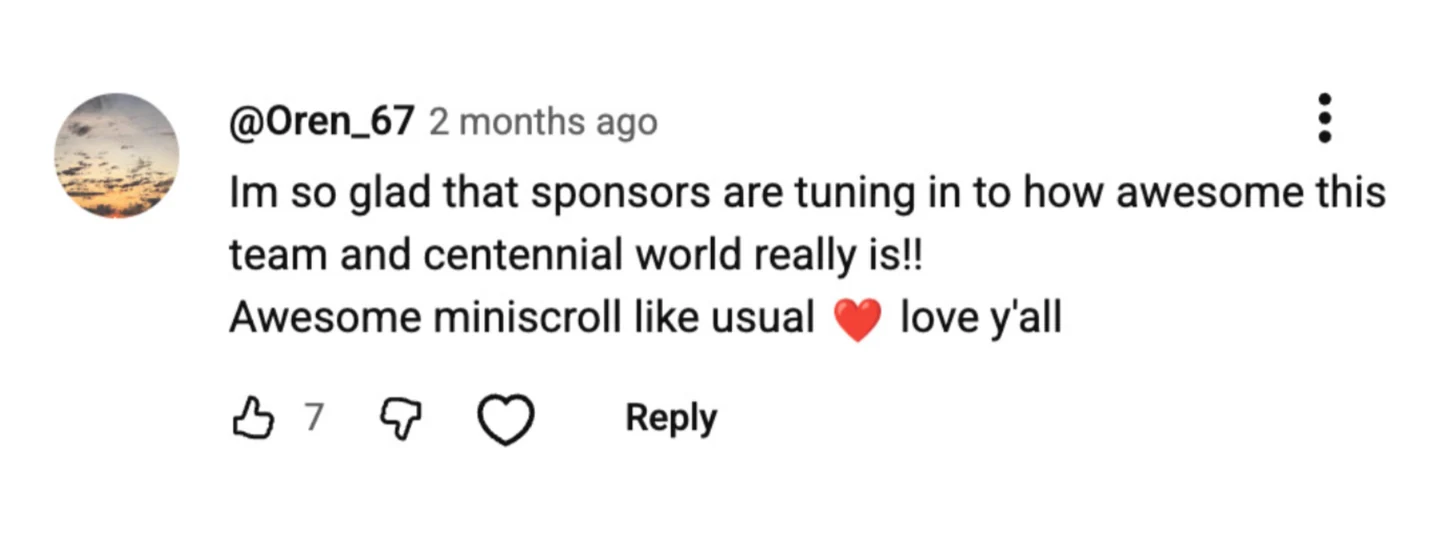
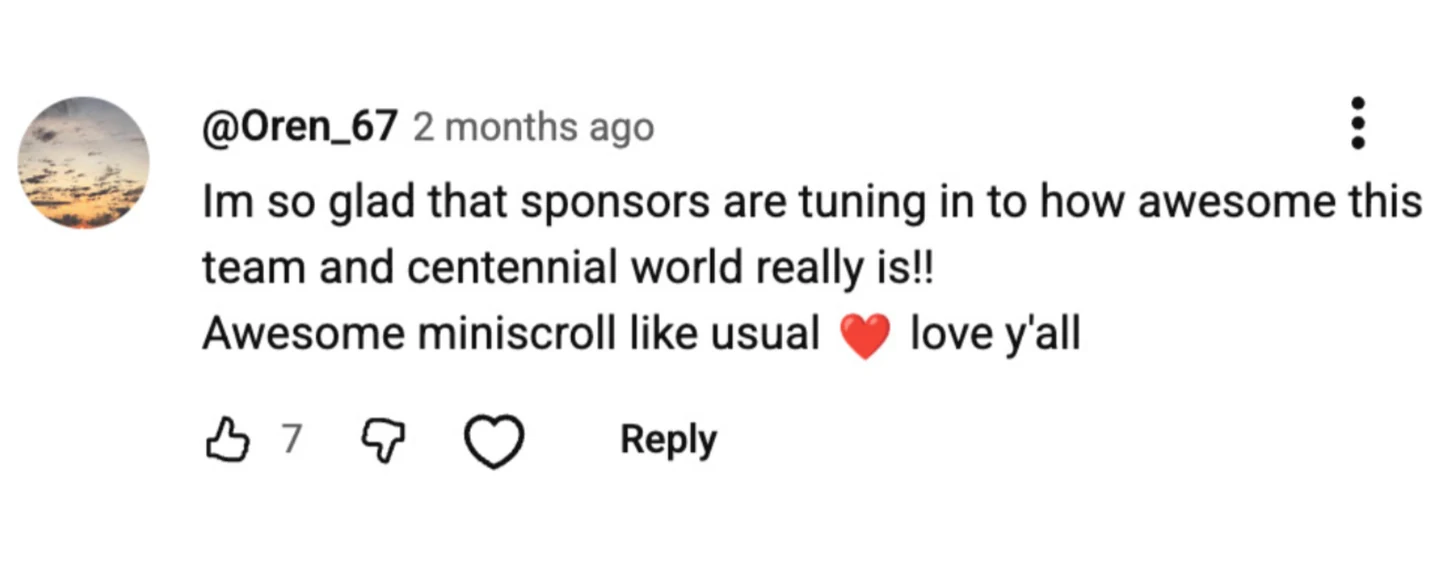
change comment formatting and size

diff --git a/index.html b/index.html
@@ -279,8 +279,9 @@ nav{position:sticky;top:0;z-index:60;background:var(--paper);border-bottom:1px s
 /* One column, one width. Two columns left ragged gaps wherever the screenshots
    were different heights. --cw is set per group so the comment text inside each
    screenshot lands at roughly the same size as the body copy. */
-.cwall{display:flex;flex-direction:column;gap:14px;margin-top:clamp(26px,3.4vw,40px);
-  max-width:var(--cw,700px)}
+.cwall{display:grid;grid-template-columns:1fr;gap:14px;margin-top:clamp(26px,3.4vw,40px);
+  max-width:var(--cw,1160px)}
+@media(min-width:720px){.cwall{grid-template-columns:1fr 1fr}}
 .cwall figure{margin:0;background:#fff;border:1px solid color-mix(in srgb,var(--ink) 14%,transparent);
   transition:transform .4s var(--ease),border-color .3s}
 .cwall figure:hover{transform:translateY(-4px);border-color:var(--ink)}
@@ -538,7 +539,7 @@ footer{padding:40px 0;border-top:1px solid color-mix(in srgb,var(--paper) 16%,va
     <h2 class="rv" style="--i:1">We’re where they already are.</h2>
     <p class="lede rv" style="--i:2;margin-top:1.3rem">We publish across podcast, YouTube, TikTok and Substack. We don’t ask our audience to come to us — we publish where young people already are, in the formats they already use.</p>
     <div class="find-grid"><div class="fc rv" style="--i:0"><span class="plat">Video podcasts</span><strong>Infinite Scroll, Mini Scroll &amp; Mini Tech Scroll</strong><span class="stat">400K monthly listens across RSS &amp; YouTube</span><a href="https://open.spotify.com/show/18cqrQI7gMiVfxIMRAeULF" target="_blank" rel="noopener">Listen on Spotify</a><a href="https://podcasts.apple.com/au/podcast/infinite-scroll/id1499785732" target="_blank" rel="noopener" style="margin-top:.5rem">Listen on Apple</a></div><div class="fc rv" style="--i:1"><span class="plat">YouTube</span><strong>Centennial World</strong><span class="stat">27.1% engagement rate</span><a href="https://www.youtube.com/@centennialworldpodcastnetwork" target="_blank" rel="noopener">Watch on YouTube</a></div><div class="fc rv" style="--i:2"><span class="plat">TikTok</span><strong>@centennialworld</strong><span class="stat">5 million monthly views</span><a href="https://www.tiktok.com/@centennialworld" target="_blank" rel="noopener">Follow on TikTok</a></div><div class="fc rv" style="--i:3"><span class="plat">TikTok</span><strong>@miniscrollpodcast</strong><span class="stat">10 million monthly views</span><a href="https://tiktok.com/@miniscrollpodcast" target="_blank" rel="noopener">Follow on TikTok</a></div><div class="fc rv" style="--i:4"><span class="plat">Substack</span><strong>Keep Scrolling For…</strong><span class="stat">54% open rate</span><a href="https://centennialworld.substack.com/" target="_blank" rel="noopener">Read on Substack</a></div></div>
-    <div class="cwall" style="--cw:700px"><figure class="rv" style="--i:0"><img src="comment-escapism.webp?v=2" alt="Audience comment" srcset="comment-escapism-sm.webp?v=2 760w, comment-escapism.webp?v=2 1440w" sizes="(min-width:900px) 700px, calc(100vw - 32px)" width="1440" height="540" loading="lazy"></figure><figure class="rv" style="--i:1"><img src="comment-fomo.webp?v=2" alt="Audience comment" srcset="comment-fomo-sm.webp?v=2 760w, comment-fomo.webp?v=2 1440w" sizes="(min-width:900px) 700px, calc(100vw - 32px)" width="1440" height="540" loading="lazy"></figure></div>
+    <div class="cwall"><figure class="rv" style="--i:0"><img src="comment-escapism.webp?v=2" alt="Audience comment" srcset="comment-escapism-sm.webp?v=2 760w, comment-escapism.webp?v=2 1440w" sizes="(min-width:720px) 573px, calc(100vw - 32px)" width="1440" height="567" loading="lazy"></figure><figure class="rv" style="--i:1"><img src="comment-fomo.webp?v=2" alt="Audience comment" srcset="comment-fomo-sm.webp?v=2 760w, comment-fomo.webp?v=2 1440w" sizes="(min-width:720px) 573px, calc(100vw - 32px)" width="1440" height="567" loading="lazy"></figure></div>
     <p class="cwall-note rv">What people say about the shows</p>
   
   </div>
@@ -739,7 +740,7 @@ footer{padding:40px 0;border-top:1px solid color-mix(in srgb,var(--paper) 16%,va
     </div>
   </div>
   <div class="wrap">
-    <div class="cwall" style="--cw:700px"><figure class="rv" style="--i:0"><img src="comment-morning-isa.webp?v=2" alt="Audience comment" srcset="comment-morning-isa-sm.webp?v=2 760w, comment-morning-isa.webp?v=2 1440w" sizes="(min-width:900px) 700px, calc(100vw - 32px)" width="1440" height="540" loading="lazy"></figure><figure class="rv" style="--i:1"><img src="comment-morning-fav.webp?v=2" alt="Audience comment" srcset="comment-morning-fav-sm.webp?v=2 760w, comment-morning-fav.webp?v=2 1440w" sizes="(min-width:900px) 700px, calc(100vw - 32px)" width="1440" height="540" loading="lazy"></figure><figure class="rv" style="--i:2"><img src="comment-morning-moon.webp?v=2" alt="Audience comment" srcset="comment-morning-moon-sm.webp?v=2 760w, comment-morning-moon.webp?v=2 1440w" sizes="(min-width:900px) 700px, calc(100vw - 32px)" width="1440" height="540" loading="lazy"></figure></div>
+    <div class="cwall"><figure class="rv" style="--i:0"><img src="comment-morning-isa.webp?v=2" alt="Audience comment" srcset="comment-morning-isa-sm.webp?v=2 760w, comment-morning-isa.webp?v=2 1440w" sizes="(min-width:720px) 573px, calc(100vw - 32px)" width="1440" height="567" loading="lazy"></figure><figure class="rv" style="--i:1"><img src="comment-morning-moon.webp?v=2" alt="Audience comment" srcset="comment-morning-moon-sm.webp?v=2 760w, comment-morning-moon.webp?v=2 1440w" sizes="(min-width:720px) 573px, calc(100vw - 32px)" width="1440" height="567" loading="lazy"></figure></div>
     <p class="cwall-note rv">Unedited comments from YouTube and our DMs</p>
   </div>
 </section>
@@ -757,7 +758,7 @@ footer{padding:40px 0;border-top:1px solid color-mix(in srgb,var(--paper) 16%,va
     </div>
     <p class="eyebrow rv" style="--i:4;margin-top:1.8rem">16 May – 30 September 2026</p>
 
-    <div class="cwall" style="--cw:760px"><figure class="rv" style="--i:0"><img src="comment-tt-pinch.webp?v=2" alt="Audience comment" srcset="comment-tt-pinch-sm.webp?v=2 760w, comment-tt-pinch.webp?v=2 1440w" sizes="(min-width:900px) 760px, calc(100vw - 32px)" width="1440" height="540" loading="lazy"></figure><figure class="rv" style="--i:1"><img src="comment-tt-tanti.webp?v=2" alt="Audience comment" srcset="comment-tt-tanti-sm.webp?v=2 760w, comment-tt-tanti.webp?v=2 1440w" sizes="(min-width:900px) 760px, calc(100vw - 32px)" width="1440" height="540" loading="lazy"></figure></div>
+    <div class="cwall"><figure class="rv" style="--i:0"><img src="comment-tt-pinch.webp?v=2" alt="Audience comment" srcset="comment-tt-pinch-sm.webp?v=2 760w, comment-tt-pinch.webp?v=2 1440w" sizes="(min-width:720px) 573px, calc(100vw - 32px)" width="1440" height="567" loading="lazy"></figure><figure class="rv" style="--i:1"><img src="comment-tt-tanti.webp?v=2" alt="Audience comment" srcset="comment-tt-tanti-sm.webp?v=2 760w, comment-tt-tanti.webp?v=2 1440w" sizes="(min-width:720px) 573px, calc(100vw - 32px)" width="1440" height="567" loading="lazy"></figure></div>
     <p class="cwall-note rv">Comments on the <em>Mini Scroll</em> TikTok account</p>
 
     <div class="tt-grid">
@@ -810,7 +811,7 @@ footer{padding:40px 0;border-top:1px solid color-mix(in srgb,var(--paper) 16%,va
     <p class="chan-line rv">Campaigns can combine any of the following:</p>
     <div class="chan"><div class="ch rv" style="--i:0"><strong>Podcasts</strong><span>Infinite Scroll, Mini Scroll, Mini Tech Scroll, custom branded mini series</span></div><div class="ch rv" style="--i:1"><strong>YouTube</strong><span>Centennial World network channel</span></div><div class="ch rv" style="--i:2"><strong>TikTok</strong><span>Centennial World (verified brand account) &amp; Mini Scroll Podcast</span></div><div class="ch rv" style="--i:3"><strong>Substack</strong><span>Keep Scrolling For…</span></div><div class="ch rv" style="--i:4"><strong>Events</strong><span>Get in front of Gen Z consumers IRL</span></div><div class="ch rv" style="--i:5"><strong>Founder-led</strong><span>Lauren Meisner TikTok &amp; Instagram</span></div></div>
 
-    <div class="cwall" style="--cw:560px"><figure class="rv" style="--i:0"><img src="comment-sp-trustfund.webp?v=2" alt="Audience comment about a sponsored campaign" srcset="comment-sp-trustfund-sm.webp?v=2 760w, comment-sp-trustfund.webp?v=2 1440w" sizes="(min-width:900px) 560px, calc(100vw - 32px)" width="1440" height="540" loading="lazy"></figure><figure class="rv" style="--i:1"><img src="comment-sp-grateful.webp?v=2" alt="Audience comment about a sponsored campaign" srcset="comment-sp-grateful-sm.webp?v=2 760w, comment-sp-grateful.webp?v=2 1440w" sizes="(min-width:900px) 560px, calc(100vw - 32px)" width="1440" height="540" loading="lazy"></figure><figure class="rv" style="--i:2"><img src="comment-sp-tuning-in.webp?v=2" alt="Audience comment about a sponsored campaign" srcset="comment-sp-tuning-in-sm.webp?v=2 760w, comment-sp-tuning-in.webp?v=2 1440w" sizes="(min-width:900px) 560px, calc(100vw - 32px)" width="1440" height="540" loading="lazy"></figure><figure class="rv" style="--i:3"><img src="comment-tt-luce.webp?v=2" alt="Audience comment about a sponsored campaign" srcset="comment-tt-luce-sm.webp?v=2 760w, comment-tt-luce.webp?v=2 1440w" sizes="(min-width:900px) 560px, calc(100vw - 32px)" width="1440" height="540" loading="lazy"></figure></div>
+    <div class="cwall"><figure class="rv" style="--i:0"><img src="comment-sp-trustfund.webp?v=2" alt="Audience comment about a sponsored campaign" srcset="comment-sp-trustfund-sm.webp?v=2 760w, comment-sp-trustfund.webp?v=2 1440w" sizes="(min-width:720px) 573px, calc(100vw - 32px)" width="1440" height="567" loading="lazy"></figure><figure class="rv" style="--i:1"><img src="comment-sp-grateful.webp?v=2" alt="Audience comment about a sponsored campaign" srcset="comment-sp-grateful-sm.webp?v=2 760w, comment-sp-grateful.webp?v=2 1440w" sizes="(min-width:720px) 573px, calc(100vw - 32px)" width="1440" height="567" loading="lazy"></figure><figure class="rv" style="--i:2"><img src="comment-sp-tuning-in.webp?v=2" alt="Audience comment about a sponsored campaign" srcset="comment-sp-tuning-in-sm.webp?v=2 760w, comment-sp-tuning-in.webp?v=2 1440w" sizes="(min-width:720px) 573px, calc(100vw - 32px)" width="1440" height="567" loading="lazy"></figure><figure class="rv" style="--i:3"><img src="comment-tt-luce.webp?v=2" alt="Audience comment about a sponsored campaign" srcset="comment-tt-luce-sm.webp?v=2 760w, comment-tt-luce.webp?v=2 1440w" sizes="(min-width:720px) 573px, calc(100vw - 32px)" width="1440" height="567" loading="lazy"></figure></div>
     <p class="cwall-note rv">Our audience welcomes our sponsors rather than scrolling past them</p>
 
     <h3 class="rv" style="margin-top:clamp(40px,5vw,62px)">Ready-to-buy packages</h3>
